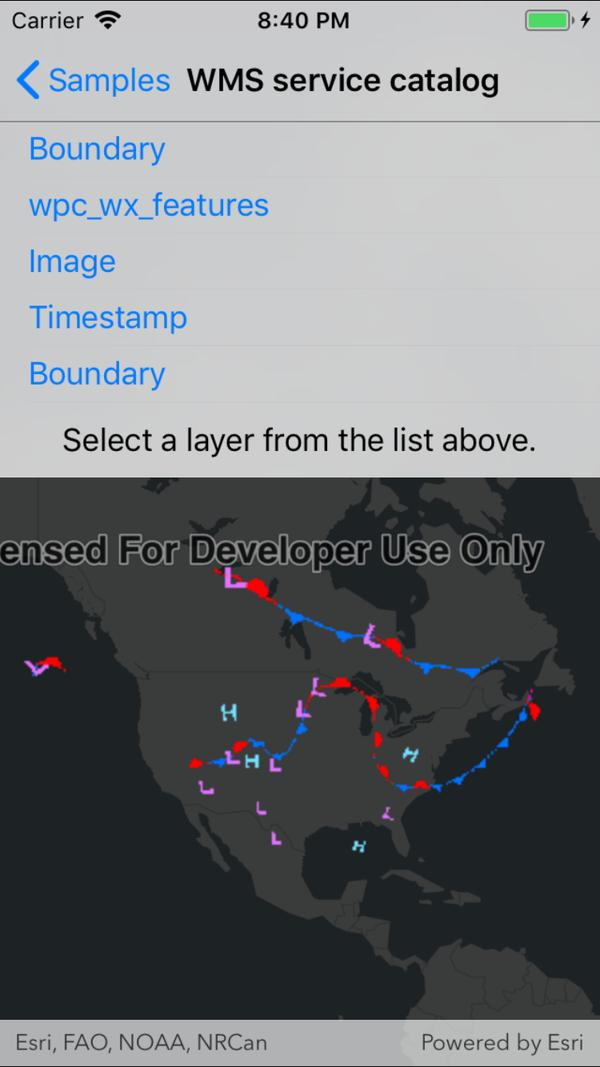
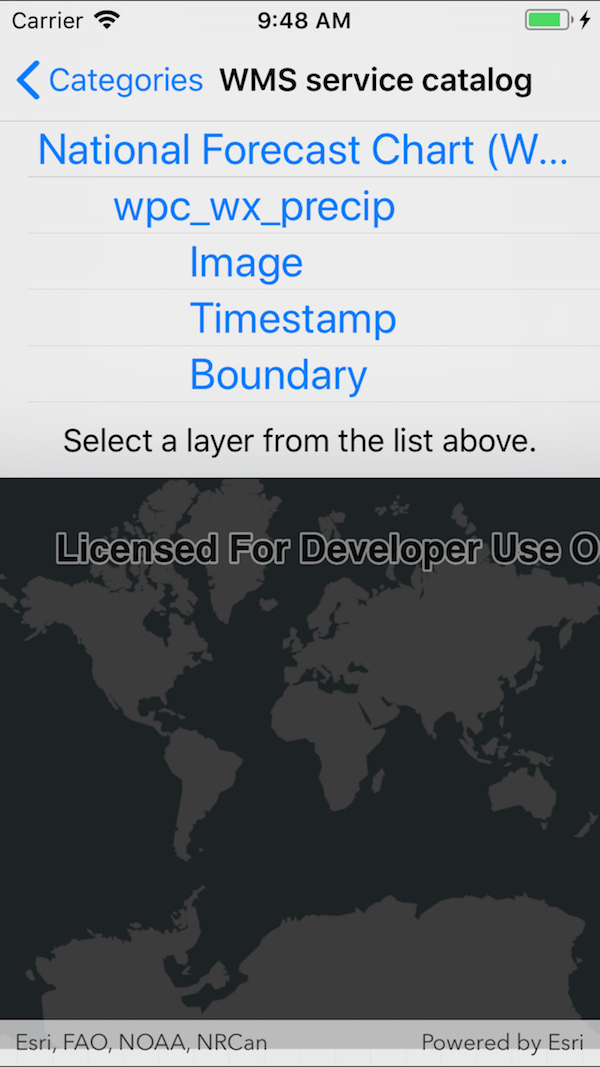
Updated for iOS

diff --git a/src/iOS/Xamarin.iOS/Samples/Layers/WmsServiceCatalog/WmsServiceCatalog.cs b/src/iOS/Xamarin.iOS/Samples/Layers/WmsServiceCatalog/WmsServiceCatalog.cs
@@ -109,24 +109,16 @@ namespace ArcGISRuntime.Samples.WmsServiceCatalog
             // Get the service info (metadata) from the service.
             WmsServiceInfo info = service.ServiceInfo;
 
+            List<LayerDisplayVM> viewModelList = new List<LayerDisplayVM>();
+
             // Get the list of layer infos.
-            IReadOnlyList<WmsLayerInfo> topLevelLayers = info.LayerInfos;
-
-            // Recursively build up a list of all the layers in the service and get their IDs as a flat list.
-            List<WmsLayerInfo> expandedList = new List<WmsLayerInfo>();
-            BuildLayerInfoList(topLevelLayers, expandedList);
-
-            List<LayerDisplayVm> displayList = new List<LayerDisplayVm>();
-
-            // Build the ViewModel from the expanded list of layer infos.
-            foreach (WmsLayerInfo layerInfo in expandedList)
+            foreach (var layerInfo in info.LayerInfos)
             {
-                // LayerDisplayVM is a custom type made for this sample to serve as the ViewModel; it is not a part of the ArcGIS Runtime.
-                displayList.Add(new LayerDisplayVm(layerInfo));
+                LayerDisplayVM.BuildLayerInfoList(new LayerDisplayVM(layerInfo, null), viewModelList);
             }
 
             // Construct the layer list source.
-            _layerListSource = new LayerListSource(displayList, this);
+            _layerListSource = new LayerListSource(viewModelList, this);
 
             // Set the source for the table view (layer list).
             _myDisplayList.Source = _layerListSource;
@@ -136,37 +128,9 @@ namespace ArcGISRuntime.Samples.WmsServiceCatalog
         }
 
         /// <summary>
-        /// Recursively builds a list of WmsLayerInfo metadata starting from a collection of root WmsLayerInfo.
-        /// </summary>
-        /// <remarks>
-        /// For simplicity, this sample doesn't show the layer hierarchy (tree), instead collapsing it to a list.
-        /// A tree view would be more appropriate, but would complicate the sample greatly.
-        /// </remarks>
-        /// <param name="info">Collection of starting WmsLayerInfo object.</param>.
-        /// <param name="result">Result list to build.</param>
-        private void BuildLayerInfoList(IReadOnlyList<WmsLayerInfo> info, List<WmsLayerInfo> result)
-        {
-            // Return if there are no more layers to explore.
-            if (info.Count < 1)
-            {
-                return;
-            }
-
-            // Add each layer and each layer's children.
-            foreach (WmsLayerInfo layer in info)
-            {
-                // Add the layer.
-                result.Add(layer);
-
-                // Recursively add children.
-                BuildLayerInfoList(layer.LayerInfos, result);
-            }
-        }
-
-        /// <summary>
         /// Updates the map with the latest layer selection.
         /// </summary>
-        private async void UpdateMapDisplay(List<LayerDisplayVm> displayList)
+        private async void UpdateMapDisplay(List<LayerDisplayVM> displayList)
         {
             // Remove all existing layers.
             _myMapView.Map.OperationalLayers.Clear();
@@ -193,13 +157,13 @@ namespace ArcGISRuntime.Samples.WmsServiceCatalog
         public void LayerSelectionChanged(int selectedIndex)
         {
             // Clear existing selection.
-            foreach (LayerDisplayVm item in _layerListSource.ViewModelList)
+            foreach (LayerDisplayVM item in _layerListSource.ViewModelList)
             {
-                item.IsEnabled = false;
+                item.Select(false);
             }
 
             // Update the selection.
-            _layerListSource.ViewModelList[selectedIndex].IsEnabled = true;
+            _layerListSource.ViewModelList[selectedIndex].Select();
 
             // Update the map.
             UpdateMapDisplay(_layerListSource.ViewModelList);
@@ -210,26 +174,75 @@ namespace ArcGISRuntime.Samples.WmsServiceCatalog
     /// This is a ViewModel class for maintaining the state of a layer selection.
     /// Typically, this would go in a separate file, but it is included here for clarity.
     /// </summary>
-    public class LayerDisplayVm
+    public class LayerDisplayVM
     {
-        /// <summary>
-        /// Metadata for the individual selected layer.
-        /// </summary>
         public WmsLayerInfo Info { get; }
 
-        /// <summary>
-        /// True if the layer is selected for display.
-        /// </summary>
-        public bool IsEnabled { get; set; }
+        // True if layer is selected for display.
+        public bool IsEnabled { get; private set; }
 
-        /// <summary>
-        /// Title property to facilitate binding.
-        /// </summary>
-        public string Title => Info.Title;
+        // Keeps track of how much indentation should be added (to simulate a tree view in a list).
+        private int NestLevel
+        {
+            get
+            {
+                if (Parent == null)
+                {
+                    return 0;
+                }
 
-        public LayerDisplayVm(WmsLayerInfo info)
+                return Parent.NestLevel + 1;
+            }
+        }
+
+        private List<LayerDisplayVM> Children { get; set; }
+
+        private LayerDisplayVM Parent { get; }
+
+        public LayerDisplayVM(WmsLayerInfo info, LayerDisplayVM parent)
         {
             Info = info;
+            Parent = parent;
+        }
+
+        // Select this layer and all child layers.
+        public void Select(bool isSelected = true)
+        {
+            IsEnabled = isSelected;
+            if (Children == null)
+            {
+                return;
+            }
+
+            foreach (var child in Children)
+            {
+                child.Select(isSelected);
+            }
+        }
+
+        // Name with formatting to simulate treeview.
+        public string Name => $"{new String(' ', NestLevel * 8)} {Info.Title}";
+
+        public static void BuildLayerInfoList(LayerDisplayVM root, IList<LayerDisplayVM> result)
+        {
+            // Add the root node to the result list.
+            result.Add(root);
+
+            // Initialize the child collection for the root.
+            root.Children = new List<LayerDisplayVM>();
+
+            // Recursively add sublayers.
+            foreach (WmsLayerInfo layer in root.Info.LayerInfos)
+            {
+                // Create the view model for the sublayer.
+                LayerDisplayVM layerVM = new LayerDisplayVM(layer, root);
+
+                // Add the sublayer to the root's sublayer collection.
+                root.Children.Add(layerVM);
+
+                // Recursively add children.
+                BuildLayerInfoList(layerVM, result);
+            }
         }
     }
 
@@ -239,7 +252,7 @@ namespace ArcGISRuntime.Samples.WmsServiceCatalog
     /// </summary>
     public class LayerListSource : UITableViewSource
     {
-        public readonly List<LayerDisplayVm> ViewModelList = new List<LayerDisplayVm>();
+        public readonly List<LayerDisplayVM> ViewModelList = new List<LayerDisplayVM>();
 
         // Used when re-using cells to ensure that a cell of the right type is used
         private const string CellId = "TableCell";
@@ -247,7 +260,7 @@ namespace ArcGISRuntime.Samples.WmsServiceCatalog
         // Hold a reference to the owning view controller; this will be the active instance of WmsServiceCatalog.
         private WmsServiceCatalog Owner { get; }
 
-        public LayerListSource(List<LayerDisplayVm> items, WmsServiceCatalog owner)
+        public LayerListSource(List<LayerDisplayVM> items, WmsServiceCatalog owner)
         {
             // Set the items.
             if (items != null)
@@ -278,10 +291,10 @@ namespace ArcGISRuntime.Samples.WmsServiceCatalog
             }
 
             // Get the specific item to display.
-            LayerDisplayVm item = ViewModelList[indexPath.Row];
+            LayerDisplayVM item = ViewModelList[indexPath.Row];
 
             // Set the text on the cell.
-            cell.TextLabel.Text = item.Title;
+            cell.TextLabel.Text = item.Name;
 
             // Return the cell.
             return cell;

diff --git a/src/iOS/Xamarin.iOS/Samples/Layers/WmsServiceCatalog/README.md b/src/iOS/Xamarin.iOS/Samples/Layers/WmsServiceCatalog/README.md
@@ -1,5 +1,27 @@
 # WMS service catalog
 
-This sample demonstrates how to enable and disable the display of layers discovered from a WMS service.
+This sample demonstrates how to connect to a WMS service and list available layers and sublayers. Layers are shown in a hierarchy. Selecting a group layer will recursively select all sublayers for display. 
 
-<img src="WmsServiceCatalog.jpg" width="350"/>
+![](WmsServiceCatalog.jpg)
+
+## How to use the sample
+- Open the sample. A hierarchical list of layers and sublayers will appear. 
+- Select a layer to enable it for display. If the layer has any children, the children will also be selected.
+
+## How it works
+1. A `WmsService` is created and loaded.
+2. A `WmsService` has a `ServiceInfo` property, which is a `WmsServiceInfo`
+3. `WmsServiceInfo` has a `WmsLayerInfo` for each layer (excluding sublayers) in the `LayerInfos` collection
+4. A method is called to recursively discover sublayers for each layer. Layers are wrapped in a view model and added to a list.
+  * The view model has a `Select` method which recursively selects or deselects itself and sublayers.
+  * The view model tracks the children and parent of each layer.
+
+
+## Relevant API
+ - WmsService
+ - WmsServiceInfo
+ - WmsLayerInfo
+ - WmsLayer(List<WmsLayerInfo>)
+
+## Tags
+WMS, services, browsing, catalog
